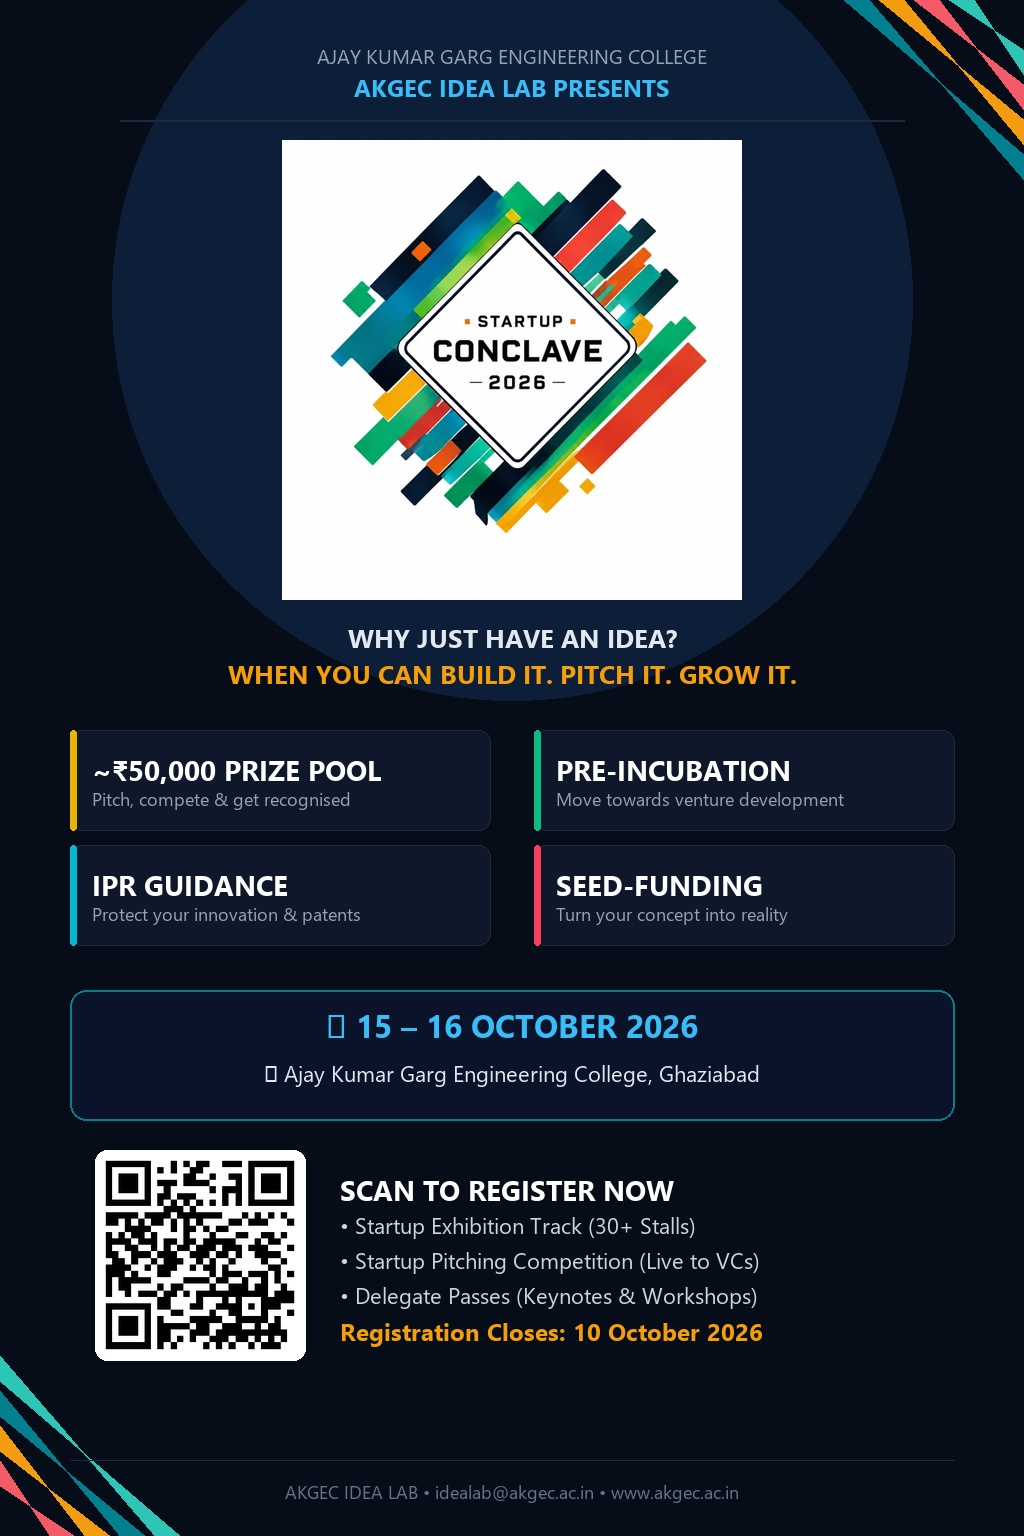
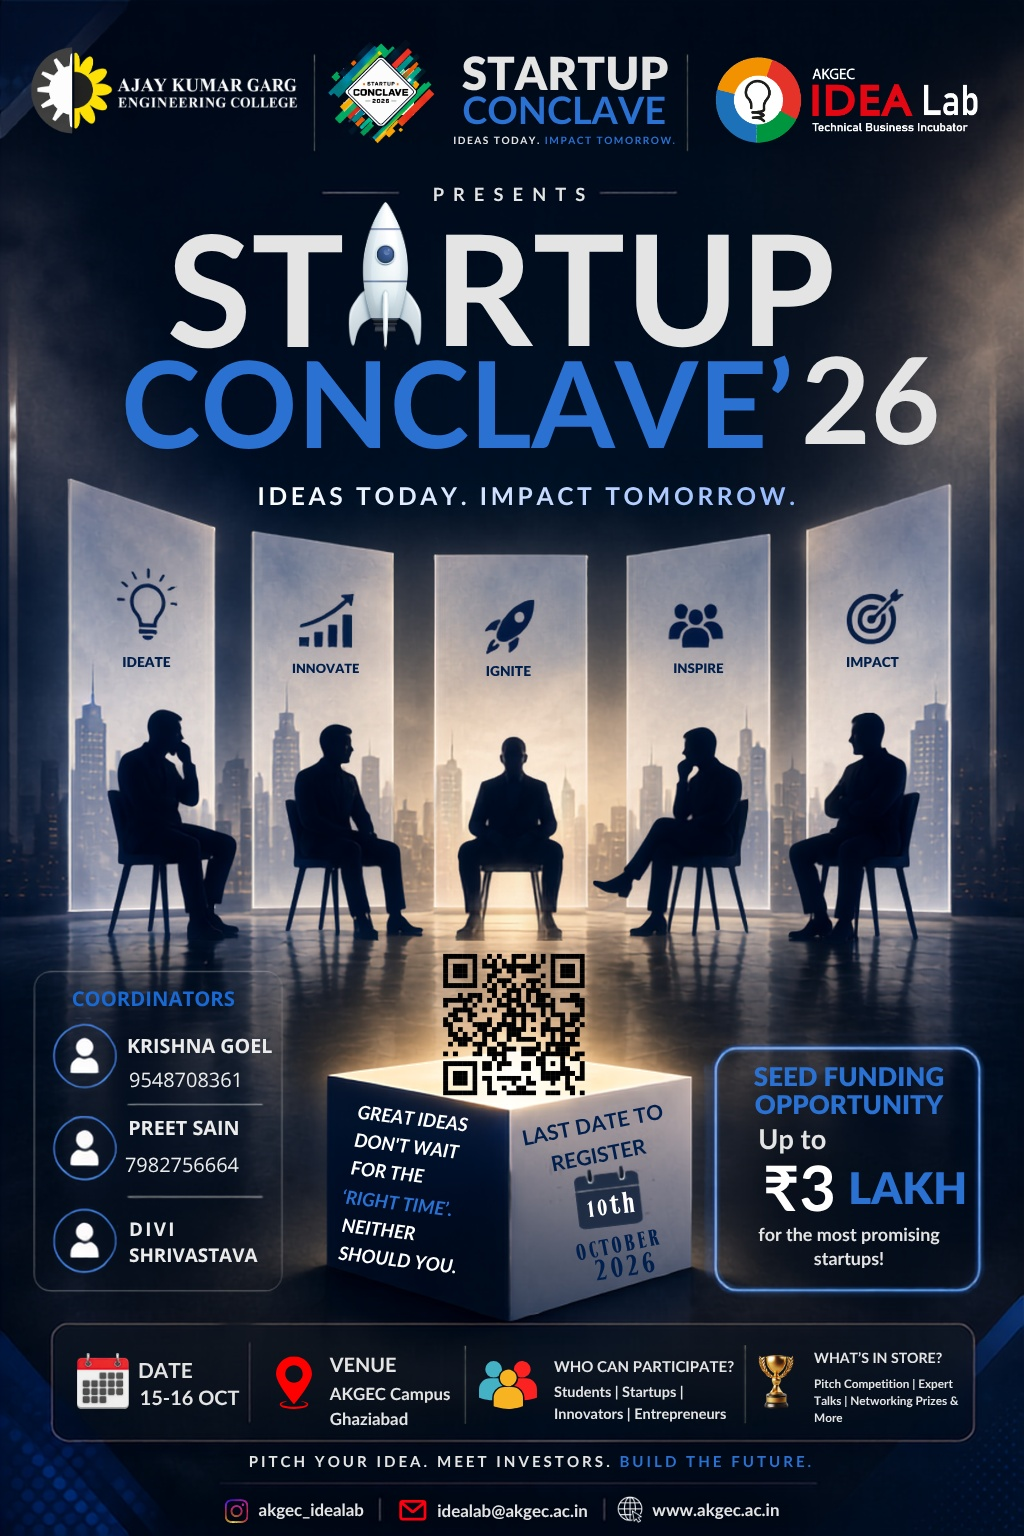
Update front page and modal event poster to official updated design

diff --git a/index.html b/index.html
@@ -529,7 +529,7 @@
         <figure class="hero-poster">
           <button class="poster-trigger" type="button" data-poster-open aria-label="View the full event poster">
             <img src="images/conclave-poster.jpg"
-              alt="Official Startup Conclave '26 poster: five founders seated under the words Ideate, Innovate, Ignite, Inspire and Impact, with the registration QR code, dates and prize pool details."
+              alt="Official Startup Conclave '26 poster: five founders seated under the words Ideate, Innovate, Ignite, Inspire and Impact, with the registration QR code, coordinators, dates, and up to ₹3 Lakh seed funding opportunity."
               width="1024" height="1536" fetchpriority="high">
             <span class="poster-hint">
               <svg viewBox="0 0 24 24" width="16" height="16" aria-hidden="true">
@@ -1554,7 +1554,7 @@
       </svg>
     </button>
     <img src="images/conclave-poster.jpg"
-      alt="Full Startup Conclave '26 poster with the registration QR code, coordinators, dates, venue and seed funding details."
+      alt="Full Startup Conclave '26 poster with the registration QR code, coordinators, dates, venue and up to ₹3 Lakh seed funding details."
       width="1024" height="1536">
     <div class="poster-modal-actions">
       <a class="btn btn-primary btn-sm" href="#ways-to-join">Register now</a>
